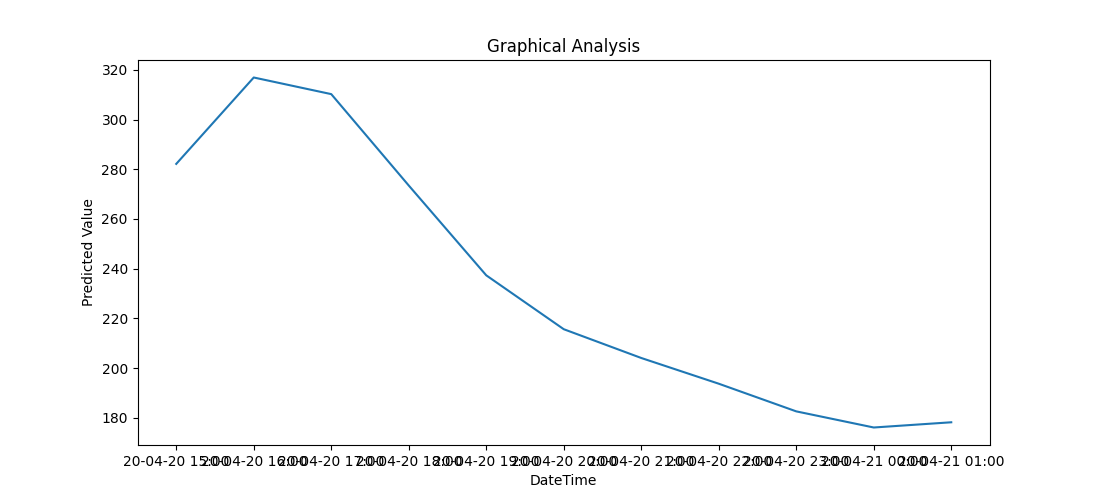
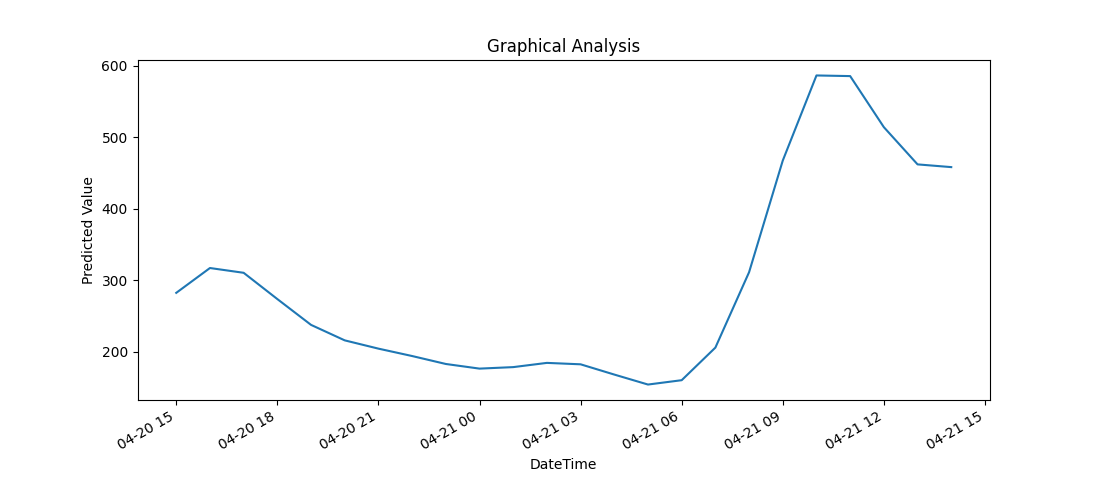
x-axis overlap in graph corrected in backend code

diff --git a/src/webapp/backend/routes/model.py b/src/webapp/backend/routes/model.py
@@ -63,6 +63,7 @@ def predict(model):
 
 def graph(model):
     import matplotlib.pyplot as plt
+    from matplotlib.dates import DateFormatter
     From = datetime.strptime(sys.argv[2] + " " + sys.argv[3], '%Y-%m-%d %H:%M')
     To = datetime.strptime(sys.argv[4] + " " + sys.argv[5], '%Y-%m-%d %H:%M')
     data = getData(From, To)
@@ -72,12 +73,16 @@ def graph(model):
         x.append(i['dateTime'])
         x_ticks.append(i['dateTime'].strftime('%y-%m-%d %H:%M'))
         y.append(i['yhat'])
-    plt.figure(figsize=(11, 5))
+    # plt.figure(figsize=(11, 5))
     plt.xticks(x, x_ticks)
-    plt.plot(x, y)
+    fig, ax = plt.subplots(figsize=(11, 5))
+    ax.plot(x, y)
+    # plt.plot(x, y)
     plt.xlabel('DateTime')
     plt.ylabel('Predicted Value')
     plt.title('Graphical Analysis')
+    ax.xaxis_date()
+    fig.autofmt_xdate()
     plt.savefig('./outputs/graph.png')
     plt.close()
     print("Graph plotted and saved!")
